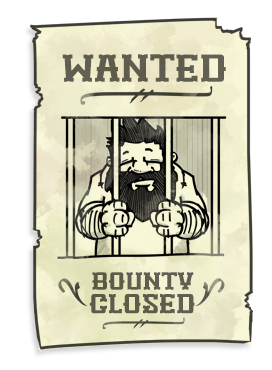
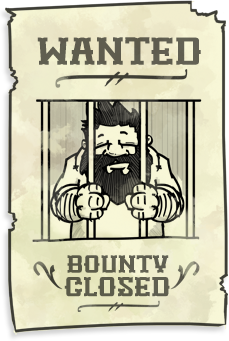
Resized bounty status image.

diff --git a/meteor/packages/bounty/server/bounty_art.js b/meteor/packages/bounty/server/bounty_art.js
@@ -39,10 +39,10 @@ Bounty.statusImage = function (bountyId, callback) {
 
 
     var currencySymbol = "$";
-    var leftOffset = 271;
-    var rightOffset = 42;
     var width = 715;
     var height = 370;
+    var leftOffset = width - 444;
+    var rightOffset = 42;
     var backgroundColor = "#E0C39D";
     var textColor = "#484640";
 
@@ -118,6 +118,9 @@ Bounty.statusImage = function (bountyId, callback) {
     ctx.fillText(siteLink, width - rightOffset, 336);
 
     // Draw bounty status image
+    var bountyStatusOriginX = 24;
+    var bountyStatusOriginY = 16;
+    
     var bountyStatusImageFile;
     if (status == "open")
         bountyStatusImageFile = "banner-bounty-open.png";
@@ -129,9 +132,12 @@ Bounty.statusImage = function (bountyId, callback) {
         throw "Unknown bounty status";
     var bountyStatusImage = new Image;
     bountyStatusImage.src = fs.readFileSync(assetFile(bountyStatusImageFile));
-    ctx.drawImage(bountyStatusImage, 0, 0, bountyStatusImage.width, bountyStatusImage.height);
+    ctx.drawImage(bountyStatusImage, bountyStatusOriginX, bountyStatusOriginY, bountyStatusImage.width, bountyStatusImage.height);
 
     // Draw bounty cash image
+    var bountyCashOriginX = 171;
+    var bountyCashOriginY = 249;
+
     var bountyCashImageFile;
     switch (bounty.cashLevel) {
         case 1:
@@ -154,7 +160,7 @@ Bounty.statusImage = function (bountyId, callback) {
     }
     var bountyCashImage = new Image;
     bountyCashImage.src = fs.readFileSync(assetFile(bountyCashImageFile));
-    ctx.drawImage(bountyCashImage, 171, 249, bountyCashImage.width, bountyCashImage.height);
+    ctx.drawImage(bountyCashImage, bountyCashOriginX, bountyCashOriginY, bountyCashImage.width, bountyCashImage.height);
 
     callback(canvas);
 };
